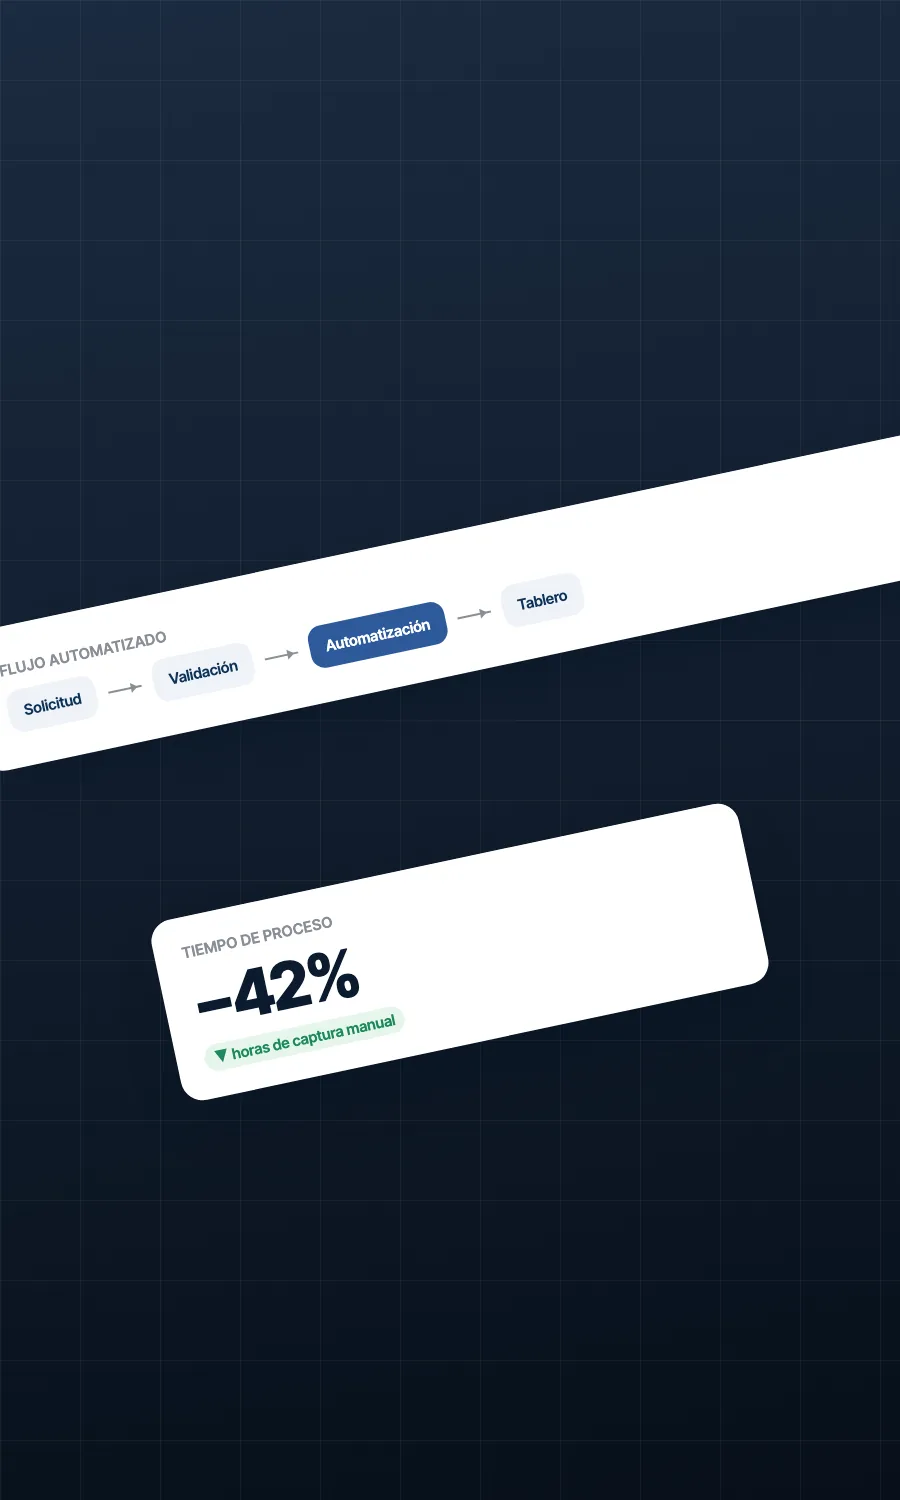
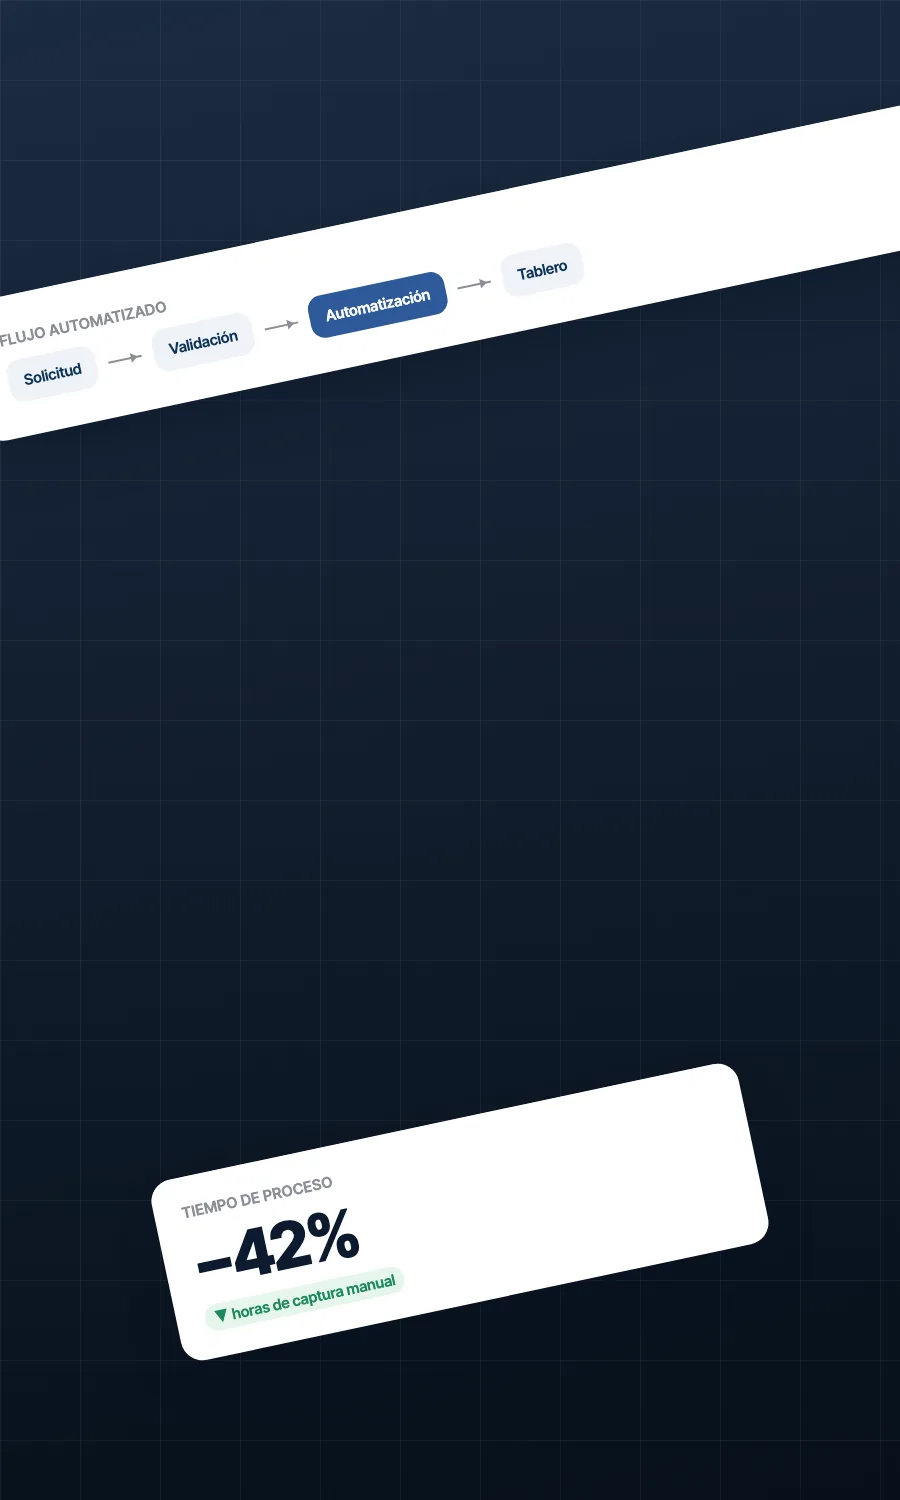
Servicios: mejor contraste de títulos y detalles
Fondos regenerados con la franja central libre, velo oscuro con sombra
central y text-shadow en títulos, nota oculta en reposo y animaciones de
hover fuera de la zona de texto.

diff --git a/src/app/globals.css b/src/app/globals.css
@@ -924,15 +924,21 @@ html.reduced .hero__b {
   height: 100%;
   object-fit: cover;
   z-index: -3;
-  transition: transform 1.2s var(--ease-main);
+  filter: brightness(0.72) saturate(0.95);
+  transition:
+    transform 1.2s var(--ease-main),
+    filter 0.5s ease;
 }
 .svc:is(:hover, :focus-within, .is-active) .svc__img {
   transform: scale(1.05);
+  filter: brightness(0.55) saturate(0.9);
 }
+/* Velo oscuro + sombra central para que el título siempre contraste */
 .svc__dim {
   position: absolute;
   inset: 0;
-  background: rgba(5, 12, 22, 0.25);
+  background-color: rgba(5, 12, 22, 0.3);
+  background-image: radial-gradient(ellipse 95% 38% at 50% 50%, rgba(5, 12, 22, 0.7) 0%, rgba(5, 12, 22, 0) 75%);
   z-index: -2;
   transition: background-color 0.4s ease;
 }
@@ -954,7 +960,7 @@ html.reduced .hero__b {
   opacity: 0.72;
 }
 .svc:is(:hover, :focus-within, .is-active) .svc__dim {
-  background: rgba(5, 12, 22, 0.62);
+  background-color: rgba(5, 12, 22, 0.78);
 }
 .svc__num {
   position: absolute;
@@ -974,6 +980,9 @@ html.reduced .hero__b {
   letter-spacing: -0.04em;
   text-transform: uppercase;
   line-height: 0.95;
+  text-shadow:
+    0 2px 18px rgba(5, 12, 22, 0.85),
+    0 0 2px rgba(5, 12, 22, 0.6);
   z-index: 2;
   transition: opacity 0.3s ease;
 }
@@ -1022,7 +1031,7 @@ html.reduced .hero__b {
 .svc__note {
   margin-top: 0.5rem;
   font-size: 0.7rem;
-  opacity: 0.7;
+  color: rgba(255, 255, 255, 0.75);
 }
 .svc:is(:hover, :focus-within, .is-active) .svc__details > * {
   opacity: 1;
@@ -1058,10 +1067,10 @@ html.reduced .hero__b {
     margin: -3.75rem 0 0 -5.5rem;
   }
   .mockup:nth-child(1) {
-    top: -8rem;
+    top: -10rem;
   }
-  .mockup:nth-child(3) {
-    top: 8rem;
+  .mockup:nth-child(2) {
+    top: 10rem;
   }
 }
 
@@ -1145,10 +1154,10 @@ html.reduced .hero__b {
   border-radius: 0.35rem;
 }
 .mockup:nth-child(1) {
-  top: -11rem;
+  top: -13rem;
 }
-.mockup:nth-child(3) {
-  top: 11rem;
+.mockup:nth-child(2) {
+  top: 13rem;
 }
 .mockup:nth-child(1) i {
   background: var(--navy);
@@ -1156,9 +1165,7 @@ html.reduced .hero__b {
 .mockup:nth-child(2) i {
   background: var(--wine);
 }
-.mockup:nth-child(3) i {
-  background: var(--blue);
-}
+
 .svc:is(:hover, :focus-within, .is-active) .mockup {
   transition: transform 1s cubic-bezier(0.215, 0.61, 0.355, 1);
 }
@@ -1166,9 +1173,6 @@ html.reduced .hero__b {
   transform: translateX(-9em);
 }
 .svc:is(:hover, :focus-within, .is-active) .mockup:nth-child(2) {
-  transform: translateX(9em);
-}
-.svc:is(:hover, :focus-within, .is-active) .mockup:nth-child(3) {
   transform: translateX(9em);
 }
 
@@ -1194,12 +1198,15 @@ html.reduced .hero__b {
 .courses {
   position: absolute;
   inset: 0;
-  display: flex;
-  flex-direction: column;
-  justify-content: center;
+  display: grid;
+  grid-template-columns: 1fr 1fr;
+  align-content: space-between;
   gap: 0.75rem;
-  padding: 0 12%;
+  padding: 14% 8%;
   transform: rotate(-8deg);
+}
+.course:nth-child(3) {
+  grid-column: 2;
 }
 .course {
   background: #fff;

diff --git a/src/components/Services.tsx b/src/components/Services.tsx
@@ -21,11 +21,11 @@ function Art({ id }: { id: string }) {
               <i style={{ width: "55%", marginLeft: "15%", background: "var(--navy)" }} />
             </div>
           </div>
-          <div className="art-card" style={{ right: "8%", top: "60%", width: "46%", ["--r" as string]: "5deg" }}>
+          <div className="art-card" style={{ right: "8%", top: "70%", width: "46%", ["--r" as string]: "5deg" }}>
             Avance vs. plan
             <b>87%</b>
           </div>
-          <div className="art-card" style={{ left: "8%", bottom: "8%", width: "50%", ["--r" as string]: "-3deg" }}>
+          <div className="art-card" style={{ left: "8%", bottom: "5%", width: "50%", ["--r" as string]: "-3deg" }}>
             ✓ Hito: tablero de control
           </div>
         </div>
@@ -34,7 +34,6 @@ function Art({ id }: { id: string }) {
       return (
         <div className="svc__art">
           <div className="mockups">
-            <div className="mockup"><i /></div>
             <div className="mockup"><i /></div>
             <div className="mockup"><i /></div>
           </div>
